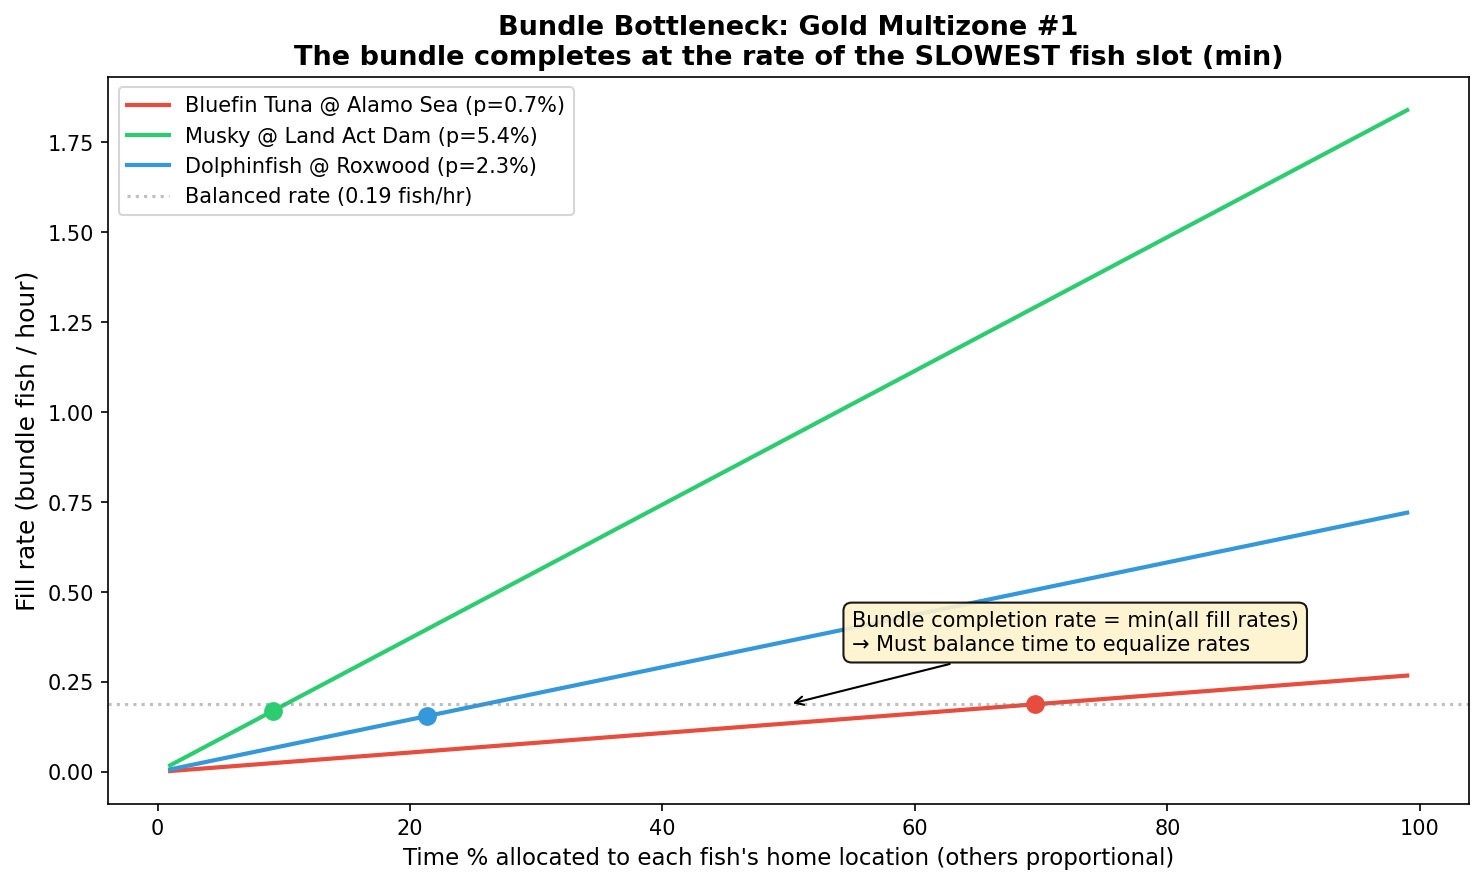
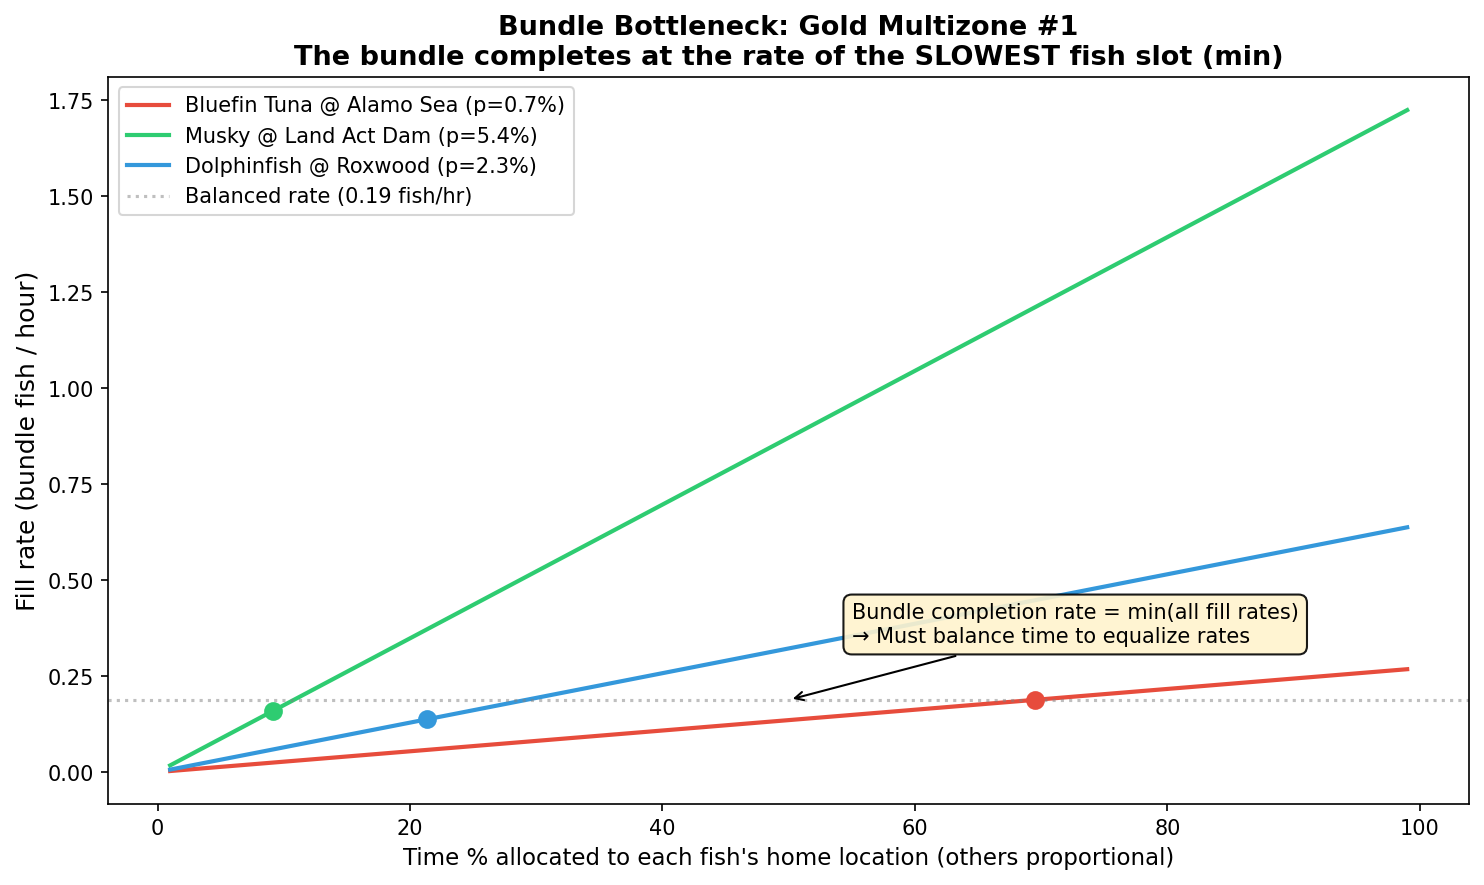
reel diff

diff --git a/sales/constants.py b/sales/constants.py
@@ -160,12 +160,19 @@ SECONDS_WAITING_FOR_BITE: dict[str, int] = {
     "Roxwood": 100,
 }
 SECONDS_WAITING_FOR_BITE_DEFAULT = 100  # for unknown locations
-SECONDS_REELING_IN = 15                 # improves with skill
+SECONDS_REELING_IN: dict[str, int] = {
+    "Alamo Sea": 15,
+    "Land Act Dam": 22,
+    "Roxwood": 30,
+}
+SECONDS_REELING_IN_DEFAULT = 30  # for unknown locations
 
 
 def seconds_per_fish(location: str) -> int:
     """Total seconds per fish at a given location."""
-    return SECONDS_WAITING_FOR_BITE.get(location, SECONDS_WAITING_FOR_BITE_DEFAULT) + SECONDS_REELING_IN
+    waiting = SECONDS_WAITING_FOR_BITE.get(location, SECONDS_WAITING_FOR_BITE_DEFAULT)
+    reeling = SECONDS_REELING_IN.get(location, SECONDS_REELING_IN_DEFAULT)
+    return waiting + reeling
 
 
 def fish_per_hour(location: str) -> float:

diff --git a/sales/update_sales.py b/sales/update_sales.py
@@ -12,6 +12,7 @@ from constants import (
     REGIONS,
     SALES_DIR,
     SECONDS_REELING_IN,
+    SECONDS_REELING_IN_DEFAULT,
     SECONDS_WAITING_FOR_BITE,
     SPECIAL_FISH_NOTES,
     TIER_DROP_PERCENTAGES,
@@ -1065,9 +1066,13 @@ def main() -> None:
             f"{loc} {SECONDS_WAITING_FOR_BITE[loc]}s"
             for loc in unlocked if loc in SECONDS_WAITING_FOR_BITE
         )
+        reel_details = ", ".join(
+            f"{loc} {SECONDS_REELING_IN.get(loc, SECONDS_REELING_IN_DEFAULT)}s"
+            for loc in unlocked
+        )
         time_note = (
             f"Bite wait by location: {bite_details}."
-            f" Reel-in: {SECONDS_REELING_IN}s."
+            f" Reel-in by location: {reel_details}."
         )
         estimated_note = "~ = estimated (not yet observed in catch data)"
         content = (

diff --git a/sales/comparison.md b/sales/comparison.md
@@ -2,15 +2,15 @@
 
 Detected tier: 3 (Alamo Sea, Land Act Dam, Roxwood).
 
-Bite wait by location: Alamo Sea 80s, Land Act Dam 90s, Roxwood 100s. Reel-in: 15s.
+Bite wait by location: Alamo Sea 80s, Land Act Dam 90s, Roxwood 100s. Reel-in by location: Alamo Sea 15s, Land Act Dam 22s, Roxwood 30s.
 
 ~ = estimated (not yet observed in catch data)
 
 | Location     | Fish Caught | $/Fish observed | $/Fish model | Available Bundles                                     | $/Fish (bundles) | $/Fish total (obs) | $/Fish total (model) | $/Hour (model) |
 |--------------|------------:|----------------:|-------------:|-------------------------------------------------------|-----------------:|-------------------:|---------------------:|---------------:|
 | Alamo Sea    |         420 |          $1,472 |       $1,404 | Gold Multizone #1, Alamo Starter, Low Level Multizone |             $655 |             $2,127 |           **$2,059** |        $78,038 |
-| Land Act Dam |         203 |          $1,670 |       $1,670 | Gold Multizone #1, Low Level Multizone                |             $393 |             $2,063 |           **$2,063** |        $70,733 |
-| Roxwood      |         172 |          $1,804 |       $1,871 | Gold Multizone #1, Low Level Multizone                |             $205 |             $2,009 |           **$2,077** |        $65,005 |
+| Land Act Dam |         203 |          $1,670 |       $1,670 | Gold Multizone #1, Low Level Multizone                |             $393 |             $2,063 |           **$2,063** |        $66,312 |
+| Roxwood      |         172 |          $1,804 |       $1,871 | Gold Multizone #1, Low Level Multizone                |             $205 |             $2,009 |           **$2,077** |        $57,504 |
 
 ## Optimal Allocation
 
@@ -18,13 +18,13 @@ Optimal time split across locations to maximize total $/hour (considering both s
 
 | Location     | Time % (obs) | $/Fish (obs) | $/Hour (obs) | Time % (model) | $/Fish (model) | $/Hour (model) |
 |--------------|-------------:|-------------:|-------------:|---------------:|---------------:|---------------:|
-| Alamo Sea    |          63% |       $1,472 |      $63,916 |            60% |         $1,404 |        $61,339 |
-| Land Act Dam |          14% |       $1,670 |      $57,264 |            15% |         $1,670 |        $57,264 |
-| Roxwood      |          23% |       $1,804 |      $56,475 |            25% |         $1,871 |        $58,574 |
-| **Combined** |         100% |              |  **$65,710** |           100% |                |    **$64,610** |
+| Alamo Sea    |         100% |       $1,472 |      $63,916 |            61% |         $1,404 |        $61,339 |
+| Land Act Dam |           0% |       $1,670 |      $53,685 |            14% |         $1,670 |        $53,685 |
+| Roxwood      |           0% |       $1,804 |      $49,959 |            25% |         $1,871 |        $51,816 |
+| **Combined** |         100% |              |  **$63,916** |           100% |                |    **$62,134** |
 
-**Observed:** splitting yields **$65,710**/hour vs **$63,916**/hour best solo (+$1,795/hour, +2.8%).
-**Model:** splitting yields **$64,610**/hour vs **$61,339**/hour best solo (+$3,271/hour, +5.3%).
+**Observed:** splitting yields **$63,916**/hour vs **$63,916**/hour best solo (+$0/hour, +0.0%).
+**Model:** splitting yields **$62,134**/hour vs **$61,339**/hour best solo (+$795/hour, +1.3%).
 
 ## Bundle Details
 
@@ -38,8 +38,8 @@ Optimal time split across locations to maximize total $/hour (considering both s
 
 | Bundle              | Fish                             |   Bonus | Avg Fish to Complete | Avg Time | Bonus/Fish | Catch Rates                                                                                                          |
 |---------------------|----------------------------------|--------:|---------------------:|---------:|-----------:|----------------------------------------------------------------------------------------------------------------------|
-| Gold Multizone #1   | Bluefin Tuna, Musky, Dolphinfish | $12,750 |                  201 |  336 min |        $63 | Bluefin Tuna @ Alamo Sea: 3/420 (0.7%) \| Musky @ Land Act Dam: 11/203 (5.4%) \| Dolphinfish @ Roxwood: 4/172 (2.3%) |
-| Low Level Multizone | Scollop, Carp, Grenadier         | $11,000 |                   66 |  120 min |       $167 | Scollop @ Alamo Sea: 47/420 (11.2%) \| Carp @ Land Act Dam: 9/203 (4.4%) \| Grenadier @ Roxwood: 5/172 (2.9%)        |
+| Gold Multizone #1   | Bluefin Tuna, Musky, Dolphinfish | $12,750 |                  201 |  349 min |        $63 | Bluefin Tuna @ Alamo Sea: 3/420 (0.7%) \| Musky @ Land Act Dam: 11/203 (5.4%) \| Dolphinfish @ Roxwood: 4/172 (2.3%) |
+| Low Level Multizone | Scollop, Carp, Grenadier         | $11,000 |                   66 |  131 min |       $167 | Scollop @ Alamo Sea: 47/420 (11.2%) \| Carp @ Land Act Dam: 9/203 (4.4%) \| Grenadier @ Roxwood: 5/172 (2.9%)        |
 
 ## Drop Rate Analysis
 
